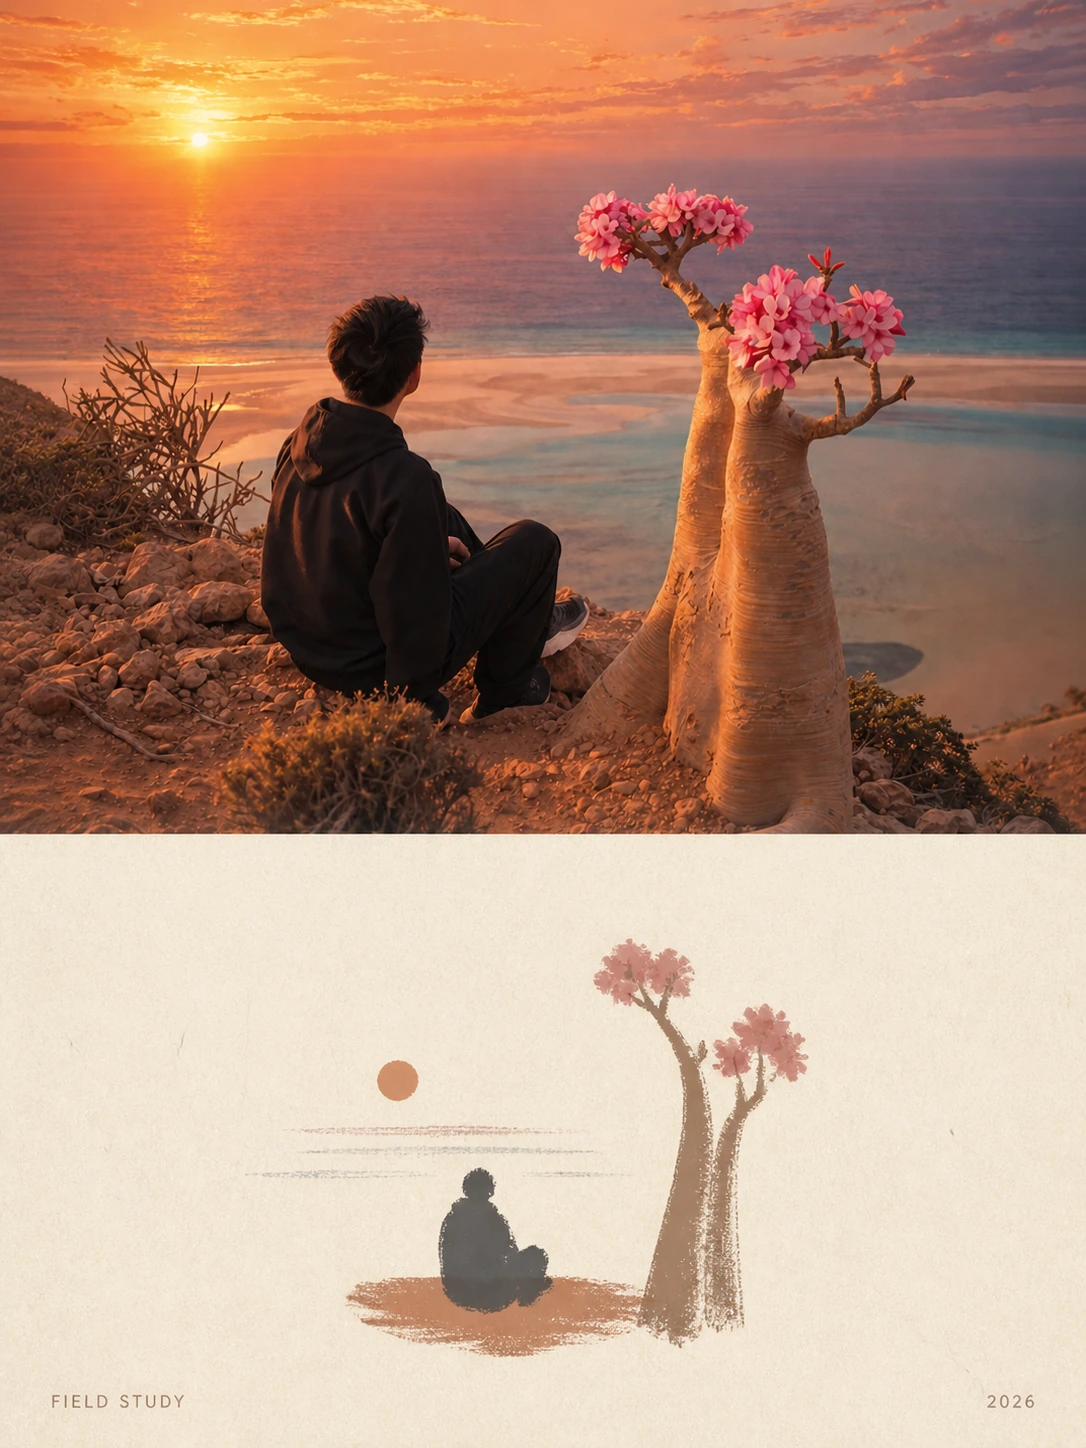
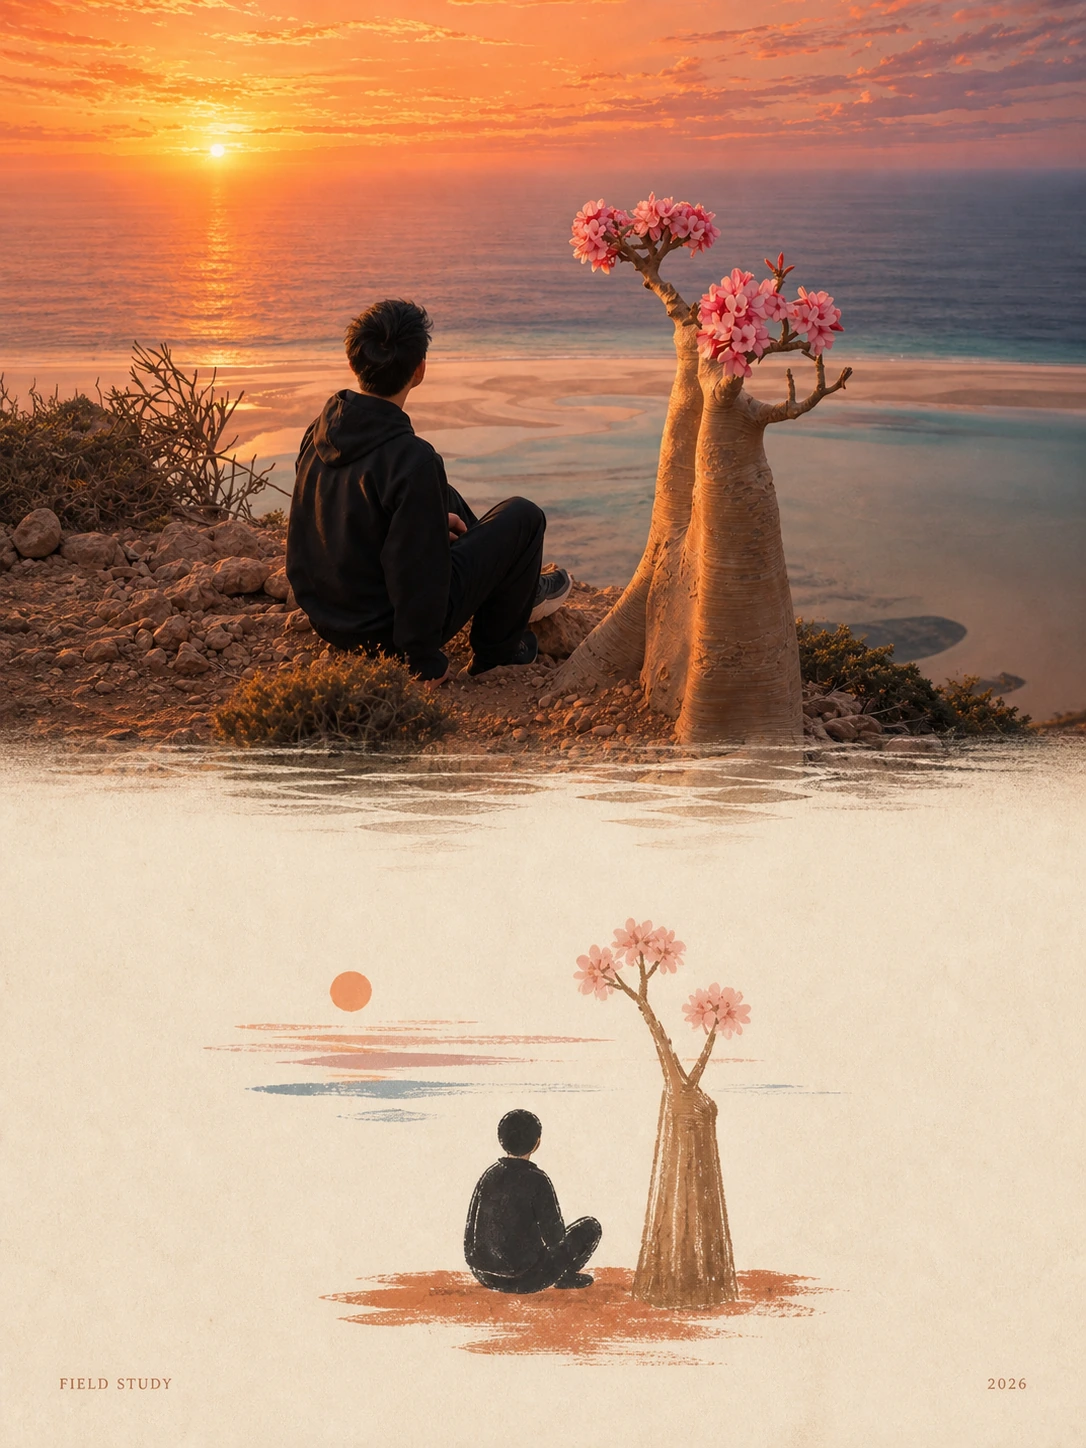
feat: center travel poster composition

diff --git a/michengai-photo-illustration-travel-poster/references/prompt-template.md b/michengai-photo-illustration-travel-poster/references/prompt-template.md
@@ -9,9 +9,13 @@
 
 以参考图为基础，制作一张受怀旧旅行摄影与极简当代图形抽象启发的高级编辑旅行海报。必须保留参考图的 [主体数量与身份]、[脸部与姿态（如有）]、[镜头视角]、[透视关系]、[主体主要位置]、[关键物体]、[景观或建筑]、[光线方向] 与 [配色]。不得替换场景、加入无关地标，也不得改变主体数量、身份、服装、姿态或空间关系。
 
-上半部分：约占画布 62–66%，对原始场景进行电影感、写实的摄影处理。保留 [前景]、[中景]、[背景] 和 [5–8 个视觉锚点]。使用符合原图的自然光线或天气，轻微褪色的胶片颜色，只在原图适合时加入柔和薄雾、低反差和细腻模拟胶片颗粒，气氛安静、怀旧。材质、比例和透视必须可信。不要 HDR、塑料感、过度锐化、虚假戏剧感或通用图库质感。
+构图与分界：画布在垂直中心严格上下对分。上半与下半的可见面积均约为 50%，分界的平均位置固定在画布 `y=50%`；如果有自然毛边、波纹或飞白，其局部高低最多约 `±2%`，不能借此改变整体比例。不要 60/40、65/35、厚白缝、独立色带、硬直水平线或渐变条。
 
-下半部分：在照片下方自然过渡到暖象牙白/米白纸面。以中式留白和意象提炼处理同一场景：先提炼 [1–3 个场景意象]，再只保留 [3–5 组主从形]、[主要动势]、[疏密关系]、[地面或水面方向] 和 [最值得留住的节奏]。主形可以是桥的一道弧、山的一段起伏、树的一团冠、一个无五官的人物姿态或岸线；辅助形才是很小的舟、屋、人物、灯点、石块或倒影短线，并且只能来自原图。主体形组放在下半区的一小片核心区域，四周保留大面积空白，绝不把场景铺满。
+上半部分：占画布上方约 50%，对原始场景进行电影感、写实的摄影处理。保留 [前景]、[中景]、[背景] 和 [5–8 个视觉锚点]。使用符合原图的自然光线或天气，轻微褪色的胶片颜色，只在原图适合时加入柔和薄雾、低反差和细腻模拟胶片颗粒，气氛安静、怀旧。材质、比例和透视必须可信。不要 HDR、塑料感、过度锐化、虚假戏剧感或通用图库质感。
+
+分界线：根据参考图中 [材质、天气与情绪] 选择一条薄而自然的交界：粗粝岩石、手工纸、旧照片可用轻微撕纸毛边；雾气、云层、光线、柔焦可用消散边缘；水面可用细微波纹或倒影断开；雪、沙、地层可用不规则自然轮廓；植被、木质或干刷感场景可用断续笔触。分界必须从当前图像的质感生长出来，贯穿画面中部但不成为额外装饰，不要完全笔直或工整。
+
+下半部分：占画布下方约 50%，从自然分界进入暖象牙白/米白纸面。以中式留白和意象提炼处理同一场景：先提炼 [1–3 个场景意象]，再只保留 [3–5 组主从形]、[主要动势]、[疏密关系]、[地面或水面方向] 和 [最值得留住的节奏]。主形可以是桥的一道弧、山的一段起伏、树的一团冠、一个无五官的人物姿态或岸线；辅助形才是很小的舟、屋、人物、灯点、石块或倒影短线，并且只能来自原图。主体形组放在下半区的一小片核心区域，四周保留大面积空白，绝不把场景铺满。
 
 造型先用删减轮廓、断续细线和低饱和哑光色块建立，再在少数边缘留下干刷、飞白、轻微套印和纸张肌理。远景更淡、更少、更接近消失；近景用一两个有重量的形体成立，不靠细节堆砌。不要透明水彩般完整塑形，不要画脸、衣褶、手指、单块石头、叶片纹理、每扇窗户、真实明暗、完整透视或完整细轮廓。下半部应让人一眼感到同一场景的气息，却不能成为逐物重画、缩小版照片、空洞图标或传统国画仿制。
 

diff --git a/michengai-photo-illustration-travel-poster/README.en.md b/michengai-photo-illustration-travel-poster/README.en.md
@@ -2,7 +2,7 @@
 
 [中文](./README.md) · **English** · [Back to repository](../README.en.md)
 
-Creates a premium travel poster from a reference photograph, with soft film-like photography above and a restrained, negative-space-led symbolic translation of the same scene below. Only tiny location and date text appears near the corners.
+Creates a premium travel poster from a reference photograph, split evenly at the visual center: soft film-like photography above and a restrained, negative-space-led symbolic translation of the same scene below. The divider grows naturally from the source image; only tiny location and date text appears near the corners.
 
 ## Inputs
 
@@ -18,6 +18,7 @@ Creates a premium travel poster from a reference photograph, with soft film-like
 
 - Uses warm daylight, gentle haze, soft contrast, slightly faded film color, and subtle analog grain in the upper photograph.
 - Uses warm ivory paper, 1–3 scene propositions and 3–5 primary/secondary shape groups, muted earth colors, and deliberate negative space below—not a literal redraw or a miniature photo.
+- Uses an approximately 50/50 centered split. The divider may become a deckled tear, mist, ripple, snow/sand contour, or broken brush edge when supported by the image, but never a thick gap, color band, or rigid line.
 - Keeps both sections aligned through the same hierarchy, movement, density, directions, and visual rhythm, without tracing faces, textures, or individual source details.
 - Renders only two tiny text elements: location and date. No title, slogan, logo, or watermark.
 - Uses a Chinese prompt that treats the reference photo as the sole visual source; example bridges, boats, rivers, or mountains are never injected into an unrelated source image.
@@ -37,7 +38,7 @@ Size: 4:5
 
 ## Demos
 
-| <strong>River town</strong><br><img src="./assets/demo/river-town.webp" alt="River town photo-abstract travel poster demo" width="320"> | <strong>Snow-peak hikers</strong><br><img src="./assets/demo/snow-peak-hikers.webp" alt="Snow-peak hikers photo-abstract travel poster demo" width="320"> |
+| <strong>Plateau figures</strong><br><img src="./assets/demo/plateau-monastics.webp" alt="Plateau figures photo-abstract travel poster demo" width="320"> | <strong>Snow-peak hikers</strong><br><img src="./assets/demo/snow-peak-hikers.webp" alt="Snow-peak hikers photo-abstract travel poster demo" width="320"> |
 | :--- | :--- |
 | <strong>Mountain monastery</strong><br><img src="./assets/demo/mountain-monastery.webp" alt="Mountain monastery photo-illustration travel poster demo" width="320"> | <strong>Coastal sunset</strong><br><img src="./assets/demo/coastal-sunset.webp" alt="Coastal sunset photo-illustration travel poster demo" width="320"> |
 | <strong>Island flutist</strong><br><img src="./assets/demo/island-flutist.webp" alt="Island flutist photo-illustration travel poster demo" width="320"> | <strong>Flower-framed dragon blood trees</strong><br><img src="./assets/demo/flower-framed-dragon-blood-trees.webp" alt="Flower-framed dragon blood trees photo-illustration travel poster demo" width="320"> |

diff --git a/michengai-photo-illustration-travel-poster/README.md b/michengai-photo-illustration-travel-poster/README.md
@@ -2,7 +2,7 @@
 
 **中文** · [English](./README.en.md) · [返回仓库首页](../README.md)
 
-基于参考照片制作高级写实抽象旅行海报：上部是带柔和胶片感的真实旅行摄影，下部以中式留白与意象提炼转译同一场景，只在角落保留微型地点与日期文字。
+基于参考照片制作高级写实抽象旅行海报：以上下各半的居中分割呈现，上部是带柔和胶片感的真实旅行摄影，下部以中式留白与意象提炼转译同一场景；分界根据照片自然生长，只在角落保留微型地点与日期文字。
 
 ## 输入
 
@@ -18,6 +18,7 @@
 
 - 上部为温暖自然日光、轻雾、低反差、略微褪色与细腻胶片颗粒的写实旅行摄影。
 - 下部使用暖象牙白纸面，以 1–3 个场景意象和 3–5 组主从形建立节奏；让“空白”成为画面的一部分，不是逐物手绘写生或缩小版照片。
+- 上、下视觉区严格以画布中心约 50% 对分；交界可随当前素材呈撕纸毛边、雾化、水波、雪/沙轮廓或干刷断边，但不使用厚缝、色带或生硬直线。
 - 上下两部分保持同一场景的主次、动势、疏密、方向与关键节奏；下部仅以无五官姿态、树团、屋顶点、舟形或倒影短线等有限线索传意，不描摹脸、纹理或逐物细节。
 - 仅渲染地点和日期两处角落微型文字；禁止标题、口号、Logo 和水印。
 - 中文提示词以参考照片为唯一视觉来源；不会把示例中的桥、船、河流或山景强行加入不相干的照片。
@@ -37,7 +38,7 @@
 
 ## 演示
 
-| <strong>水乡桥舟</strong><br><img src="./assets/demo/river-town.webp" alt="水乡桥舟写实抽象旅行海报演示" width="320"> | <strong>雪峰徒步</strong><br><img src="./assets/demo/snow-peak-hikers.webp" alt="雪峰徒步写实抽象旅行海报演示" width="320"> |
+| <strong>高原人物</strong><br><img src="./assets/demo/plateau-monastics.webp" alt="高原人物写实抽象旅行海报演示" width="320"> | <strong>雪峰徒步</strong><br><img src="./assets/demo/snow-peak-hikers.webp" alt="雪峰徒步写实抽象旅行海报演示" width="320"> |
 | :--- | :--- |
 | <strong>山谷寺院</strong><br><img src="./assets/demo/mountain-monastery.webp" alt="山谷寺院写实手绘旅行海报演示" width="320"> | <strong>海岸落日</strong><br><img src="./assets/demo/coastal-sunset.webp" alt="海岸落日写实手绘旅行海报演示" width="320"> |
 | <strong>岛屿乐声</strong><br><img src="./assets/demo/island-flutist.webp" alt="岛屿乐声写实手绘旅行海报演示" width="320"> | <strong>旷野花影</strong><br><img src="./assets/demo/flower-framed-dragon-blood-trees.webp" alt="旷野花影写实手绘旅行海报演示" width="320"> |
